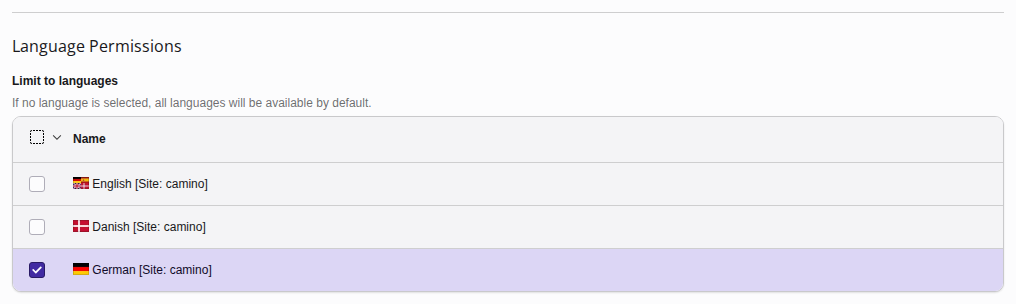
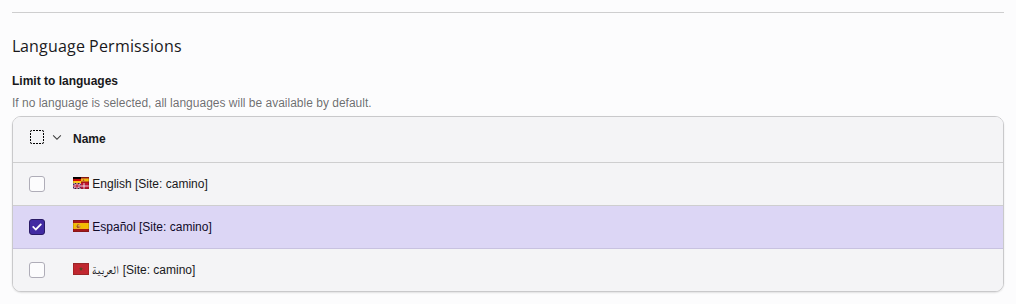
[TASK] Take the screenshots with the languages of the Editors Tutorial
The screenshots used Danish and German, while the Editors Tutorial uses
Spanish and Arabic on the same demo site of the Camino theme. With the
same languages, the screenshots of both manuals show the same website,
and Arabic shows a language that is written from right to left.

Releases: main, 14.3
Assisted-by: Claude Opus 5.5 <noreply@anthropic.com>

Changed region(s): [[0.0, 0.6513, 1.0, 0.977]]

diff --git a/Build/Screenshots/create-records.php b/Build/Screenshots/create-records.php
@@ -60,49 +60,49 @@ $uids = [
     'root' => $find('pages', 'title', 'Camino', 0),
 ];
 
-// The languages of the examples in the manual, besides the default
-// language English: Danish, which falls back to English, and German. The
-// titles are English, as the text names them, such as in the prefix
-// "[Translate to German:]".
+// The languages of the Editors Tutorial, besides the default language
+// English: Spanish, and Arabic, which was spoken in Spain for centuries,
+// and which is written from right to left. Their titles are the names of the
+// languages in themselves, as the language menus of the backend show them.
 $site = GeneralUtility::makeInstance(SiteFinder::class)->getSiteByRootPageId($uids['root']);
 $configuration = $site->getConfiguration();
 $configuration['languages'][] = [
-    'title' => 'Danish',
+    'title' => 'Español',
     'enabled' => true,
     'languageId' => 1,
-    'base' => '/da/',
-    'locale' => 'da_DK',
-    'hreflang' => 'da-DK',
-    'navigationTitle' => 'Dansk',
+    'base' => '/es/',
+    'locale' => 'es-ES',
+    'hreflang' => 'es-ES',
+    'navigationTitle' => 'Español',
     'websiteTitle' => '',
-    'flag' => 'dk',
-    'fallbackType' => 'fallback',
-    'fallbacks' => '0',
+    'flag' => 'es',
+    'fallbackType' => 'strict',
+    'fallbacks' => '',
 ];
 $configuration['languages'][] = [
-    'title' => 'German',
+    'title' => 'العربية',
     'enabled' => true,
     'languageId' => 2,
-    'base' => '/de/',
-    'locale' => 'de_DE',
-    'hreflang' => 'de-DE',
-    'navigationTitle' => 'Deutsch',
+    'base' => '/ar/',
+    'locale' => 'ar',
+    'hreflang' => 'ar',
+    'navigationTitle' => 'العربية',
     'websiteTitle' => '',
-    'flag' => 'de',
+    'flag' => 'ma',
     'fallbackType' => 'strict',
     'fallbacks' => '',
 ];
 GeneralUtility::makeInstance(SiteWriter::class)->write($site->getIdentifier(), $configuration);
 GeneralUtility::makeInstance(CacheManager::class)->flushCaches();
 
-// A group of translators, who may edit German records only, for the
+// A group of translators, who may edit Spanish records only, for the
 // screenshot of the language permissions
 $dataHandler = $process(['be_groups' => ['NEWtranslators' => [
     'pid' => 0,
-    'title' => 'German translators',
-    'allowed_languages' => '2',
+    'title' => 'Spanish translators',
+    'allowed_languages' => '1',
 ]]]);
-$uids['germanTranslators'] = $dataHandler->substNEWwithIDs['NEWtranslators'];
+$uids['spanishTranslators'] = $dataHandler->substNEWwithIDs['NEWtranslators'];
 
 // The uids differ between TYPO3 versions, so screenshots.mjs reads them here
 GeneralUtility::mkdir_deep(Environment::getVarPath());

diff --git a/AGENTS.md b/AGENTS.md
@@ -44,8 +44,9 @@ The screenshots in `Documentation/Images/GeneratedScreenshots/` come from a
 TYPO3 instance with the demo site of the Camino theme, which the Core ships
 from TYPO3 v14 on. The branch `13.4` keeps its screenshots in
 `Documentation/Images/ManualScreenshots/`. `create-records.php` adds the
-languages of the examples in this manual to the site: English as the
-default language, Danish (1), which falls back to English, and German (2).
+languages of the Editors Tutorial to the site, so that the screenshots of
+both manuals show the same website: English as the default language,
+Español (1), and العربية (2), which is written from right to left.
 The backend runs without debug mode, so it looks as an editor sees it.
 Screenshots are taken as the administrator `j.doe`.
 
